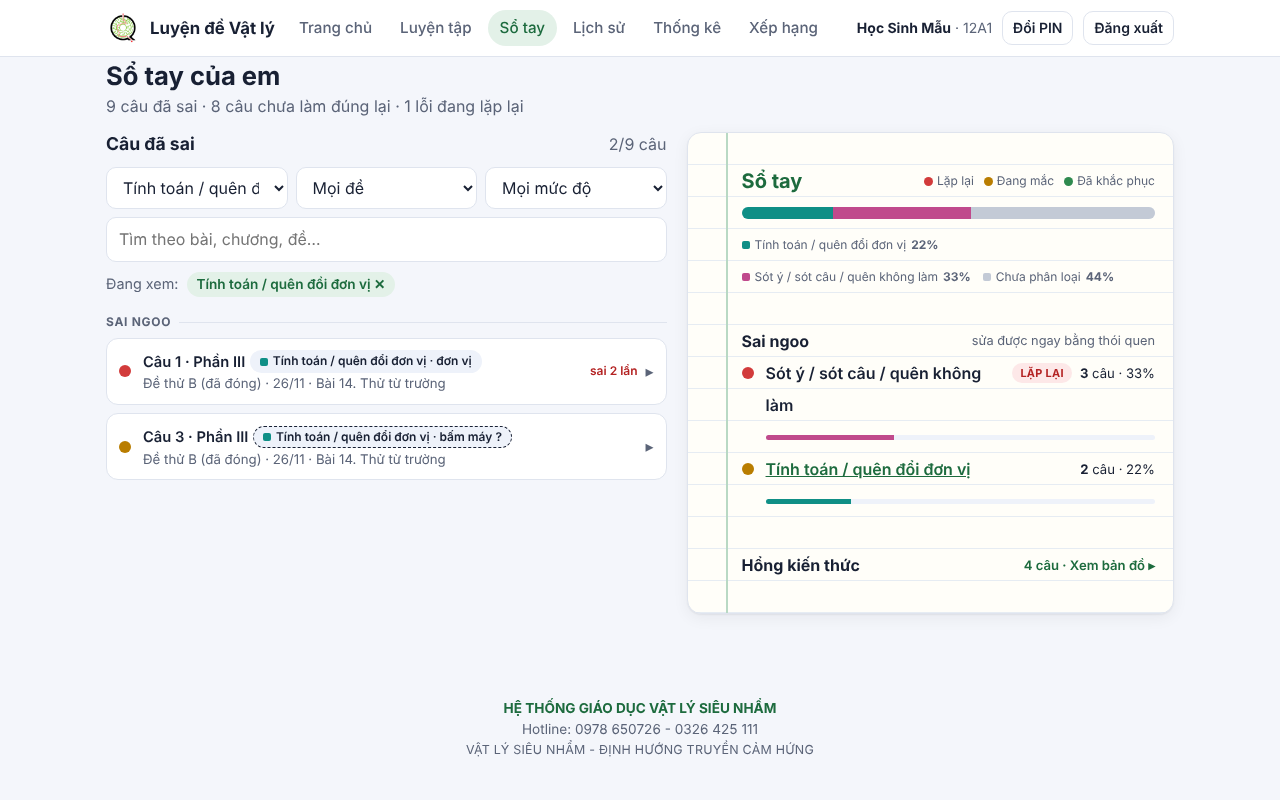
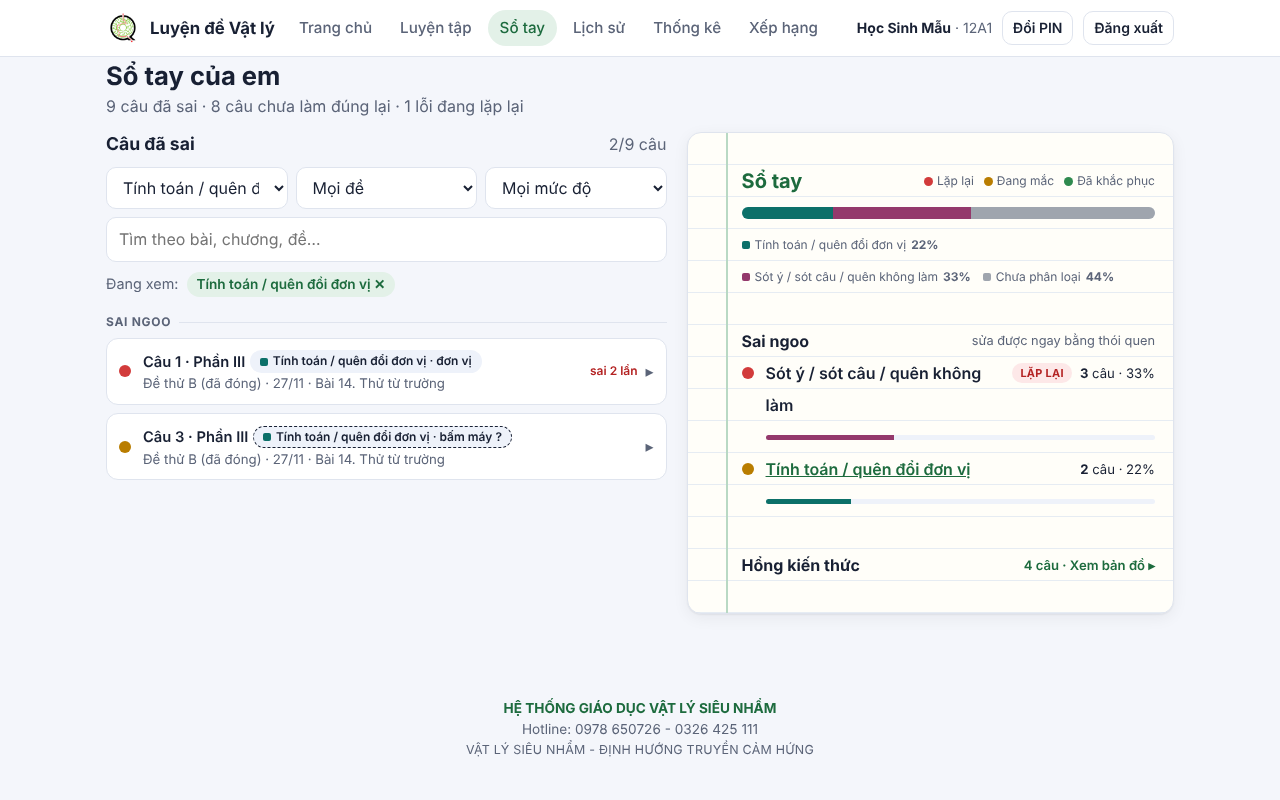
Pha 7a: màu loại lỗi đậm hơn ×1,5; dán Code.gs một lần sau 7c (quyết định 26/11)
Claude-Session: https://claude.ai/code/session_01BBCuQ1QorEcsRk4FoU8uZP

diff --git a/docs/spec/mau-so-tay.html b/docs/spec/mau-so-tay.html
@@ -9,7 +9,7 @@
   --primary: #1D6B3E; --primary-hover: #15573A; --primary-ink: #ffffff; --primary-soft: #e3f1e8;
   --paper: #fffef9; --rule: #e6ecf3; --margin: #b9d9c4;
   --do: #d23b3b; --do-soft: #fde8e8; --vang: #b97d00; --vang-soft: #fff3d1; --xanh: #2f8a4f; --xanh-soft: #e1f4e7;
-  --c-ct: #6d5dd3; --c-dd: #2b7bbd; --c-tt: #0f8f86; --c-sot: #c04a8c; --c-hkt: #66758c; --c-cr: #c3cad6;
+  --c-ct: #5347a0; --c-dd: #215f92; --c-tt: #0c7069; --c-sot: #94396c; --c-hkt: #4e5a6b; --c-cr: #9fa5ae;
   --hl-em: #fff1a8; --hl-kw: #ffd2d2; --hl-so: #d6ecff;
   --shadow: 0 1px 2px rgba(16,24,40,.06), 0 4px 16px rgba(16,24,40,.06);
   --font: "Be Vietnam Pro", system-ui, -apple-system, "Segoe UI", Roboto, sans-serif;
@@ -22,7 +22,7 @@
     --primary: #5fbf87; --primary-hover: #7fd3a2; --primary-ink: #0b1020; --primary-soft: #183826;
     --paper: #161d2b; --rule: #222c40; --margin: #2b5a3e;
     --do: #f87171; --do-soft: #3a1d22; --vang: #fbbf24; --vang-soft: #3a2f12; --xanh: #6ee7a0; --xanh-soft: #15301f;
-    --c-ct: #a397ff; --c-dd: #6fb4ee; --c-tt: #3fd1c4; --c-sot: #f08cc4; --c-hkt: #9aa7bd; --c-cr: #4a5468;
+    --c-ct: #a397ff; --c-dd: #6fb4ee; --c-tt: #3fd1c4; --c-sot: #f08cc4; --c-hkt: #9aa7bd; --c-cr: #676f80;
     --hl-em: #5c5214; --hl-kw: #5e2626; --hl-so: #1d3b58;
     --shadow: 0 1px 2px rgba(0,0,0,.3), 0 6px 20px rgba(0,0,0,.25);
     color-scheme: dark;
@@ -33,7 +33,7 @@
   --primary: #5fbf87; --primary-hover: #7fd3a2; --primary-ink: #0b1020; --primary-soft: #183826;
   --paper: #161d2b; --rule: #222c40; --margin: #2b5a3e;
   --do: #f87171; --do-soft: #3a1d22; --vang: #fbbf24; --vang-soft: #3a2f12; --xanh: #6ee7a0; --xanh-soft: #15301f;
-  --c-ct: #a397ff; --c-dd: #6fb4ee; --c-tt: #3fd1c4; --c-sot: #f08cc4; --c-hkt: #9aa7bd; --c-cr: #4a5468;
+  --c-ct: #a397ff; --c-dd: #6fb4ee; --c-tt: #3fd1c4; --c-sot: #f08cc4; --c-hkt: #9aa7bd; --c-cr: #676f80;
   --hl-em: #5c5214; --hl-kw: #5e2626; --hl-so: #1d3b58;
   --shadow: 0 1px 2px rgba(0,0,0,.3), 0 6px 20px rgba(0,0,0,.25);
   color-scheme: dark;

diff --git a/assets/css/style.css b/assets/css/style.css
@@ -21,7 +21,7 @@
   --nb-paper: #fffef9; --nb-rule: #e6ecf3; --nb-margin: #b9d9c4;
   --nb-do: #d23b3b; --nb-do-soft: #fde8e8; --nb-vang: #b97d00; --nb-xanh: #2f8a4f; --nb-xanh-soft: #e1f4e7;
   --nb-do-text: #b42323; --nb-xanh-text: #1D6B3E;
-  --nb-ct: #6d5dd3; --nb-dd: #2b7bbd; --nb-tt: #0f8f86; --nb-sot: #c04a8c; --nb-hkt: #66758c; --nb-cr: #c3cad6;
+  --nb-ct: #5347a0; --nb-dd: #215f92; --nb-tt: #0c7069; --nb-sot: #94396c; --nb-hkt: #4e5a6b; --nb-cr: #9fa5ae; /* đậm ×1,5 (chốt 26/11/2026) */
   --shadow: 0 1px 2px rgba(16, 24, 40, .06), 0 4px 16px rgba(16, 24, 40, .06);
   --radius: 14px;
   --font: "Be Vietnam Pro", system-ui, -apple-system, "Segoe UI", Roboto, sans-serif;
@@ -36,7 +36,7 @@
     --nb-paper: #161d2b; --nb-rule: #222c40; --nb-margin: #2b5a3e;
     --nb-do: #f87171; --nb-do-soft: #3a1d22; --nb-vang: #fbbf24; --nb-xanh: #6ee7a0; --nb-xanh-soft: #15301f;
     --nb-do-text: #f87171; --nb-xanh-text: #6ee7a0;
-    --nb-ct: #a397ff; --nb-dd: #6fb4ee; --nb-tt: #3fd1c4; --nb-sot: #f08cc4; --nb-hkt: #9aa7bd; --nb-cr: #4a5468;
+    --nb-ct: #a397ff; --nb-dd: #6fb4ee; --nb-tt: #3fd1c4; --nb-sot: #f08cc4; --nb-hkt: #9aa7bd; --nb-cr: #676f80;
     color-scheme: dark;
   }
 }
@@ -47,7 +47,7 @@
   --nb-paper: #161d2b; --nb-rule: #222c40; --nb-margin: #2b5a3e;
   --nb-do: #f87171; --nb-do-soft: #3a1d22; --nb-vang: #fbbf24; --nb-xanh: #6ee7a0; --nb-xanh-soft: #15301f;
   --nb-do-text: #f87171; --nb-xanh-text: #6ee7a0;
-  --nb-ct: #a397ff; --nb-dd: #6fb4ee; --nb-tt: #3fd1c4; --nb-sot: #f08cc4; --nb-hkt: #9aa7bd; --nb-cr: #4a5468;
+  --nb-ct: #a397ff; --nb-dd: #6fb4ee; --nb-tt: #3fd1c4; --nb-sot: #f08cc4; --nb-hkt: #9aa7bd; --nb-cr: #676f80;
   color-scheme: dark;
 }
 

diff --git a/docs/QUYET-DINH.md b/docs/QUYET-DINH.md
@@ -67,6 +67,7 @@
 - **Đổi màu và logo (chốt 18/11/2026, Cowork):** giữ nguyên giao diện web hiện tại và bố cục hiện tại; đổi màu chủ đạo sang xanh **#1D6B3E** (màu chủ đạo bảng màu VLSN); đổi logo thành logo VLSN lấy từ vatly.ai (ảnh "Logo Vật Lý Siêu Nhẩm" ở góc trên khung bài học). Không làm bố cục phương án B.
 - Giữ: phông Montserrat, tiêu đề in hoa đậm 800; slogan "VẬT LÝ SIÊU NHẨM - ĐỊNH HƯỚNG TRUYỀN CẢM HỨNG"; chân trang "HỆ THỐNG GIÁO DỤC VẬT LÝ SIÊU NHẨM" + hotline 0978 650726 - 0326 425 111.
 - Chỉ hiện thương hiệu trung tâm, không đưa tên giáo viên lên phần nhận diện.
+- **Bảng màu Sổ tay (chốt 26/11/2026, Pha 7):** được dùng thêm ngoài bảng màu Pha 5 — nền giấy kẻ, chấm mức độ đỏ/vàng/xanh, màu chữ nhãn đỏ #b42323 và xanh #1D6B3E, màu 6 loại lỗi. Màu loại lỗi đậm hơn khoảng 1,5 lần so với trang mẫu (độ tương phản với nền giấy ×1,5) để học sinh phân biệt rõ hơn: công thức #5347a0, đọc đề #215f92, tính toán #0c7069, sót #94396c, hổng kiến thức #4e5a6b, chưa phân loại #9fa5ae (giao diện tối chỉ đậm thêm màu chưa phân loại). Mã đầy đủ: biến `--nb-*` trong `assets/css/style.css`.
 - Pha 5 làm theo đúng mục này, ưu tiên dòng "Đổi màu và logo". (18/11/2026)
 - **Form VLSN cho file Word đề** (Cowork, 10/11/2026): file Word đề tạo mới dựng từ mẫu MAU_CHUAN_WORD_VLSN.docx; khổ Letter dọc; lề 2 / 1,5 cm; font Cambria Math 12, giãn dòng 1,15; công thức gõ bằng Equation; header/footer, khung đầu đề, tiêu đề "PHẦN 1. TRẮC NGHIỆM NHIỀU LỰA CHỌN" / "PHẦN 2. TRẮC NGHIỆM ĐÚNG SAI" / "PHẦN 3. TRẮC NGHIỆM TRẢ LỜI NGẮN", phương án A–D đặt tab, Phần III có dòng "Đáp án của em", cuối đề "---------- HẾT ----------". (Liên quan Pha 3: bộ đọc file Word phải nhận dạng đúng mẫu này.)
 
@@ -90,7 +91,7 @@ Mỗi pha 3 vai độc lập: người làm, người soát code, người kiể
   3. Kho "KHO CÂU HỎI VẬT LÝ", thư mục "02. HÌNH VẼ" và thư mục "WEB LUYỆN ĐỀ – TÀI LIỆU CHUNG": chia sẻ theo việc được giao (quyền sửa hoặc chỉ xem).
   4. Chỉ giáo viên (chủ máy chủ) bấm Triển khai → Phiên bản mới cho Apps Script. Người cộng tác sửa `Code.gs` trong repo, tăng `APP_VERSION`, ghi việc vào `docs/VIEC-GIAO-VIEN.md`.
   5. Người mới (và Claude của họ) đọc theo thứ tự: `CLAUDE.md` → `docs/TONG-QUAN.md` → file Quyết định đã chốt. Quyết định chung vẫn ghi vào file trên Drive. Không ghi tên, email người cộng tác vào repo.
-- **Pha 7 — Sổ tay cá nhân (chốt 26/11/2026):** 7a sổ tay tự động (danh sách câu sai, phân loại lỗi máy tự đoán, mức độ theo màu); 7b học sinh tự phân loại lỗi, ghi chú, lời nhắc trước khi làm đề và công cụ khắc phục từng loại lỗi; 7c đề khắc phục và trạng thái đã khắc phục. Đặc tả: `docs/spec/pha-7-so-tay.md`.
+- **Pha 7 — Sổ tay cá nhân (chốt 26/11/2026):** 7a sổ tay tự động (danh sách câu sai, phân loại lỗi máy tự đoán, mức độ theo màu); 7b học sinh tự phân loại lỗi, ghi chú, lời nhắc trước khi làm đề và công cụ khắc phục từng loại lỗi; 7c đề khắc phục và trạng thái đã khắc phục. Đặc tả: `docs/spec/pha-7-so-tay.md`. Chốt 26/11/2026: làm xong cả 7a, 7b, 7c rồi giáo viên dán Code.gs **một lần** (như Pha 6); từng pha con vẫn gộp vào `main` qua pull request, trang web tự ẩn mục Sổ tay khi máy chủ chưa cập nhật.
 
 ## 9. Câu hỏi mở / việc đang chờ
 - ~~Code.gs 1.1.0 chưa dán vào Apps Script — dán một lần ở Pha 6.~~ Đã dán Code.gs 1.5.0 ngày 21/11/2026.
@@ -118,3 +119,4 @@ Mỗi pha 3 vai độc lập: người làm, người soát code, người kiể
 - 26/11/2026 — Claude Code: giáo viên chốt tính năng Sổ tay cá nhân cho học sinh (Pha 7a–7c), ghi ở mục 5 và mục 8. Đặc tả `docs/spec/pha-7-so-tay.md` chờ giáo viên duyệt.
 - 26/11/2026 — Claude Code: giáo viên duyệt đặc tả Pha 7 và chốt 4 câu hỏi mở theo đề xuất; dựng trang mẫu giao diện Sổ tay.
 - 26/11/2026 — Claude Code: giáo viên chốt giao diện sổ tay kiểu chữ nằm giữa hai dòng kẻ (mục 5); bắt đầu làm Pha 7a.
+- 26/11/2026 — Claude Code: Pha 7a qua soát code và kiểm thử vòng 2 (ĐẠT). Giáo viên chốt bảng màu Sổ tay, màu loại lỗi đậm hơn ×1,5 (mục 6); dán Code.gs một lần sau Pha 7c (mục 8); cho phép tạo pull request Pha 7a.

diff --git a/docs/VIEC-GIAO-VIEN.md b/docs/VIEC-GIAO-VIEN.md
@@ -1,8 +1,8 @@
 # Việc giáo viên cần làm
 
-## Pha 7a — Sổ tay cá nhân: Code.gs 1.6.0 (làm khi Pha 7a đã gộp vào `main`)
+## Pha 7 — Sổ tay cá nhân: dán Code.gs MỘT LẦN, sau khi Pha 7c đã gộp vào `main` (CHƯA làm)
 
-Bản 1.6.0 thêm mục **Sổ tay** cho học sinh. Trước khi dán, học sinh vẫn dùng web bình thường (mục Sổ tay chỉ hiện khi máy chủ đã là 1.6.0).
+Đã chốt 26/11/2026: làm xong 7a, 7b, 7c rồi mới dán (như Pha 6). Trong lúc chờ, các pha con vẫn gộp vào `main`; học sinh dùng web bình thường, mục **Sổ tay** tự ẩn cho tới khi máy chủ được cập nhật. Các bước dưới đây ghi theo bản 7a; khi 7c xong sẽ ghi lại số phiên bản cuối và việc thêm của 7b, 7c.
 - ☐ Sao lưu Google Sheet "web luyện đề" (**Tệp → Tạo bản sao**), ghi số phiên bản triển khai đang dùng (như A1 bên dưới).
 - ☐ **Tiện ích mở rộng → Apps Script**, Ctrl+A xóa code cũ, dán `apps-script/Code.gs` (nút **Copy raw file** trên GitHub), bấm 💾 **Lưu**. Ctrl+F tìm `APP_VERSION`: phải thấy `var APP_VERSION = '1.6.0';` (ở khoảng dòng 21, sau khối chú thích đầu file).
 - ☐ Chọn hàm **`setup`** → ▶ **Chạy**. Google sẽ không hỏi quyền mới. Quay lại Google Sheet: có thêm trang tính `SoTay`, `CongThuc` (tổng cộng 9 trang tính của web) và 2 dòng mới cuối `CaiDat`: `BAT_SO_TAY` = `CO`, `TU_KHOA_DOC_SAI`.

diff --git a/docs/spec/pha-7-so-tay.md b/docs/spec/pha-7-so-tay.md
@@ -6,7 +6,7 @@
 - Máy tự đoán loại lỗi khi chắc chắn (bỏ trống, lệch đúng 10ⁿ lần). Không chắc thì hỏi em. Em sửa lại được loại lỗi của từng câu.
 - Mỗi loại "sai ngoo" có một công cụ sửa riêng: thẻ công thức có tên gợi nhớ, bài tập gạch từ khóa, thang đổi đơn vị, kế hoạch chia thời gian.
 - Có **đề khắc phục** ngắn dựng từ chính câu em đã sai cộng với câu tương tự. Một lỗi tính là đã khắc phục khi em làm đúng 2 lần ở 2 ngày khác nhau.
-- Chia 3 pha con: **7a** sổ tay tự động, **7b** em tự phân loại lỗi, công cụ sửa và lời nhắc, **7c** đề khắc phục. Mỗi pha con thầy dán lại Code.gs một lần.
+- Chia 3 pha con: **7a** sổ tay tự động, **7b** em tự phân loại lỗi, công cụ sửa và lời nhắc, **7c** đề khắc phục. ~~Mỗi pha con thầy dán lại Code.gs một lần.~~ Chốt 26/11/2026: làm xong cả ba pha con rồi thầy dán Code.gs **một lần**; mỗi pha con vẫn tăng số phụ `APP_VERSION` và gộp `main` qua pull request.
 
 ## Mục tiêu
 Mỗi học sinh có một nơi xem lại mọi câu đã làm sai, biết mình hay mắc **loại lỗi nào** (nhất là các lỗi "sai ngoo" sửa được ngay bằng thói quen), được nhắc trước khi làm đề, và có đề ngắn để sửa đúng lỗi của mình.

diff --git a/docs/bao-cao/pha-7a.md b/docs/bao-cao/pha-7a.md
@@ -81,3 +81,8 @@ Kiểm thử vòng 2: `tests/pha7.test.js` 15/15, `tests/pha7a-kiem-thu.test.js`
 - V2-1 (Nhẹ, soát vòng 2): `apiAdminDeleteResult_` gọi `nbVer_(r.studentId, true)` sau khi xóa bài, để sổ tay của học sinh đó bỏ ngay câu thuộc bài đã xóa. Thêm kiểm thử `tests/pha7.test.js` mục "Vòng 2 (V2-1)" (16/16 đạt); `pha7a-kiem-thu` 28/28, backend, cache, pha6, pha6-kiem-thu vẫn đạt. Sửa một dòng, chưa qua soát lại.
 - V2-2 (Nhẹ): giữ như mục Luyện tập — cấu hình trên máy học sinh sống tối đa 10 phút nên ngay sau khi tắt Sổ tay, em có thể thấy sổ cũ thêm một lần.
 - V2-3 / TC-5.1: chờ giáo viên chốt bảng màu Sổ tay.
+
+### Sau khi giáo viên duyệt (26/11/2026)
+- Màu 6 loại lỗi đậm hơn ×1,5 độ tương phản với nền giấy (giao diện sáng): #5347a0, #215f92, #0c7069, #94396c, #4e5a6b, #9fa5ae; giao diện tối chỉ đậm thêm "chưa phân loại" (#676f80) vì các màu kia làm sáng thêm sẽ ngả trắng, khó phân biệt. Trang mẫu cập nhật theo.
+- Bảng màu Sổ tay ghi vào QUYET-DINH §6, nên TC-5.1 của Pha 5 (so với `main`) sẽ đạt sau khi gộp.
+- Kế hoạch: KHÔNG dán Code.gs sau 7a; dán một lần sau 7c (`docs/VIEC-GIAO-VIEN.md`).

diff --git a/docs/BAN-GIAO.md b/docs/BAN-GIAO.md
@@ -70,6 +70,6 @@ Gộp vào `main` ngày 19/11/2026. Soát code vòng 2 ĐẠT; kiểm thử vòn
 | 6a — Chuẩn bị phát hành | Đã gộp `main` 21/11, **Code.gs bản cuối 1.5.0**, `docs/VIEC-GIAO-VIEN.md`, README, `tests/scan-secrets.js` |
 | 6b — Làm cùng giáo viên | **Xong 21/11.** Máy chủ thật 1.5.0; TC-6.7, 6.8 ĐẠT; sửa thêm bảng kẻ gạch và hình đặt nổi trong file Word. Báo cáo `docs/bao-cao/pha-6b.md` |
 
-| 7a — Sổ tay tự động | Đang làm (26/11) trên nhánh `claude/peaceful-rubin-4l9uxr`; Code.gs 1.6.0 (chưa dán). Báo cáo `docs/bao-cao/pha-7a.md` |
+| 7a — Sổ tay tự động | Xong 26/11 (soát + kiểm thử vòng 2 ĐẠT), pull request chờ giáo viên gộp; Code.gs 1.6.0 **không dán** — dán một lần sau 7c. Báo cáo `docs/bao-cao/pha-7a*.md` |
 
 Máy chủ thật đã là **1.5.0** (21/11/2026; phiên bản triển khai trước: 2). Việc còn lại: nhóm C, D trong `docs/VIEC-GIAO-VIEN.md`. Bài kiểm thử "Tạo đề" chập chờn của Pha 2 đã xác định là lỗi của test và đã sửa.
